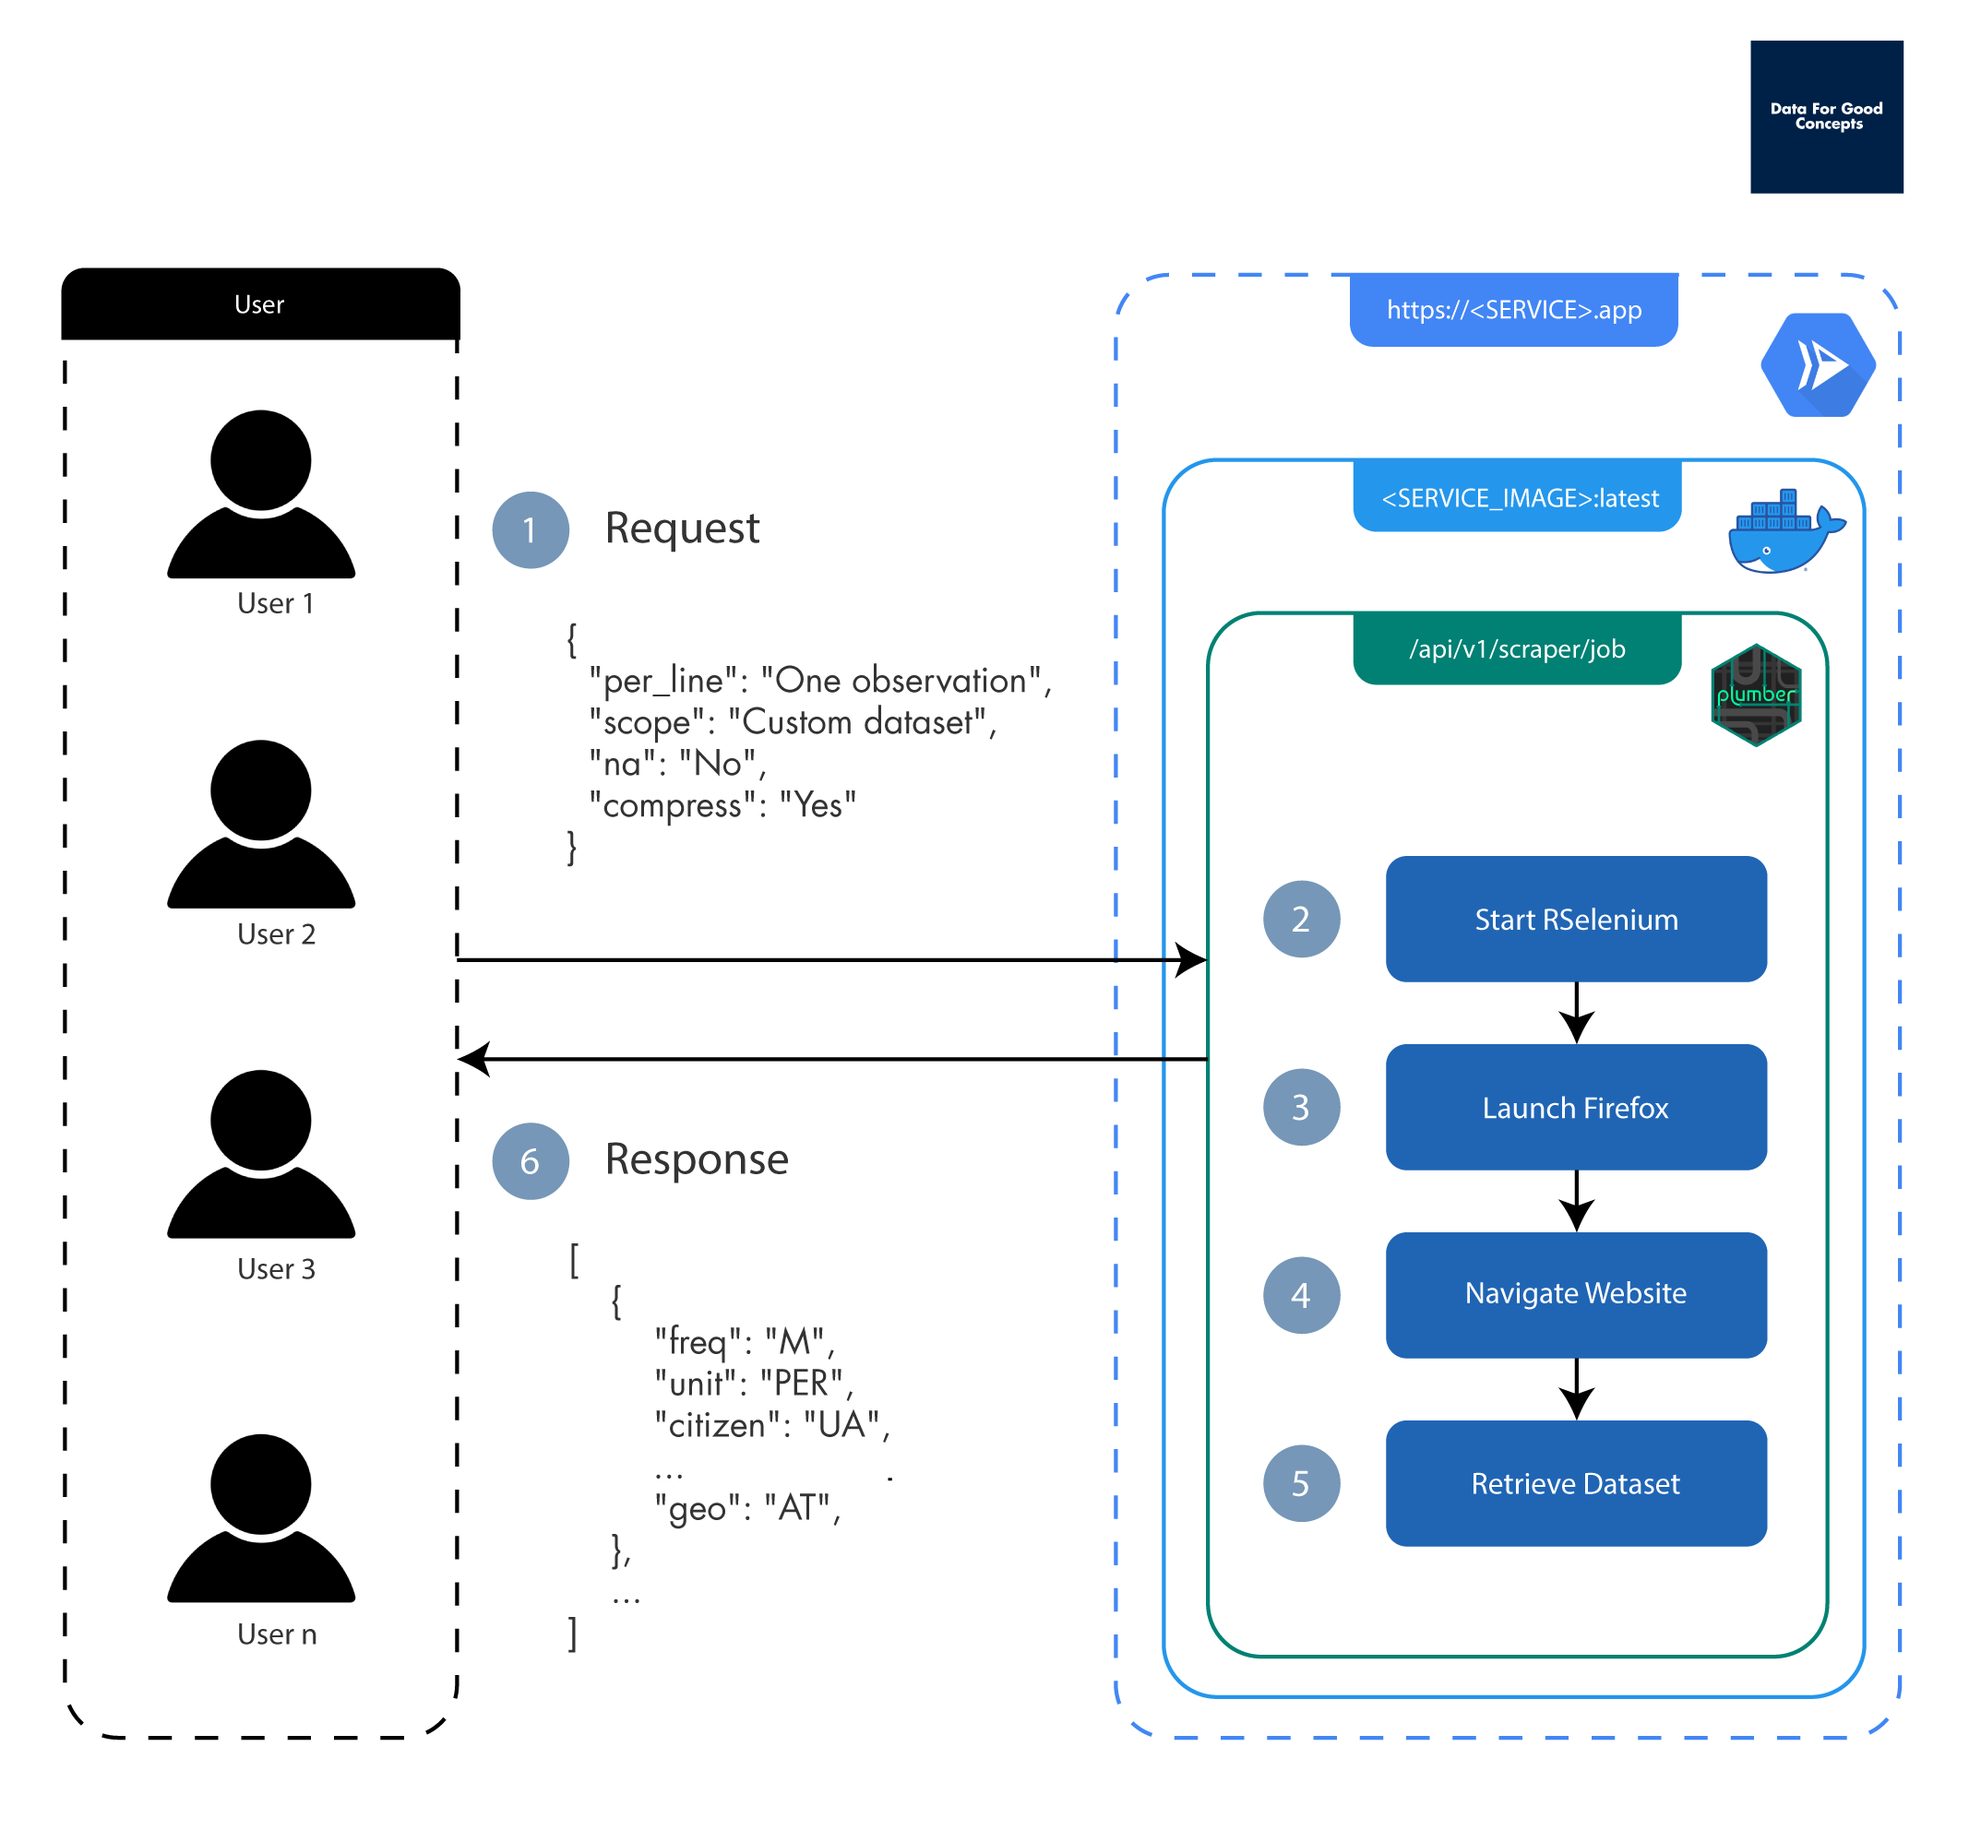
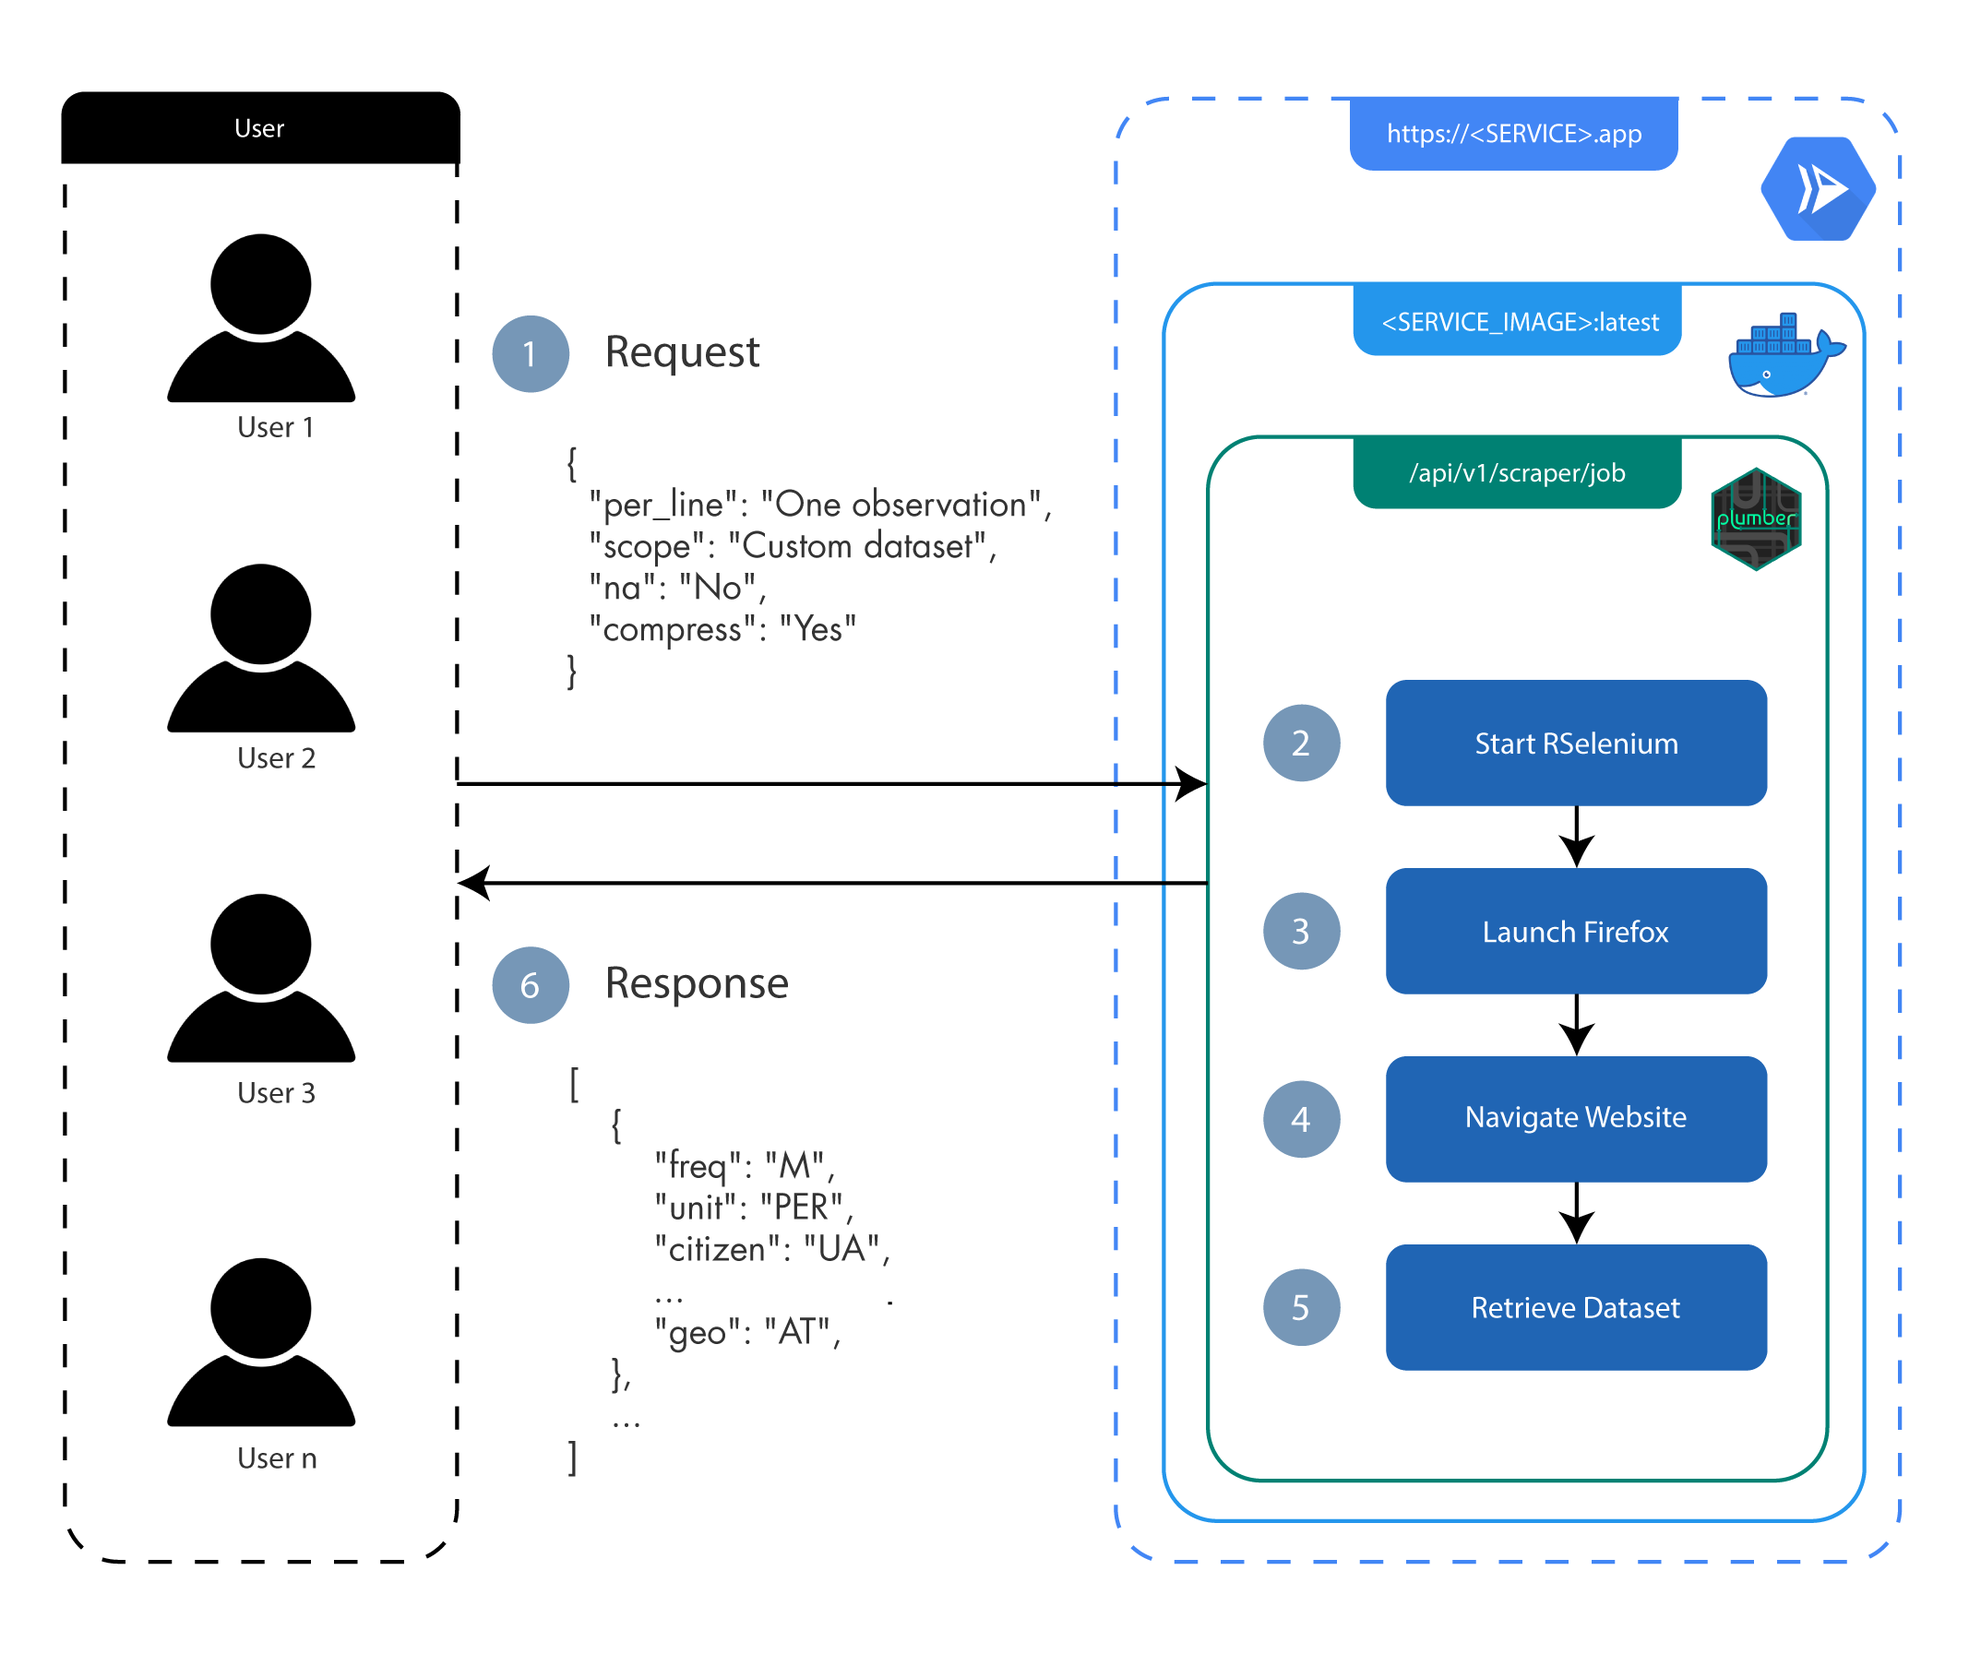
WIP readme documentation

diff --git a/README.md b/README.md
@@ -43,7 +43,7 @@ programming language.
 ## Architecture
 
 <p align="center">
-<img src="man/figures/architecture.png" width="80%" alt="scraper web service architecture."/>
+<img src="man/figures/architecture.png" width="85%" alt="scraper web service architecture."/>
 </p>
 
 ## Prerequisites
